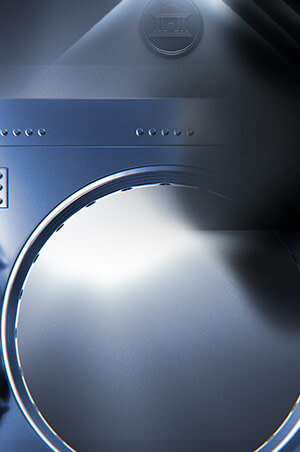
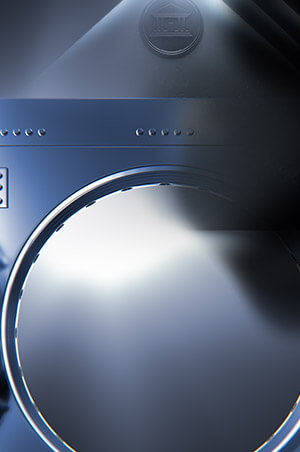
Crime small feedback

diff --git a/preview/Amazon_Book_2025/Crime/970x250/style.css b/preview/Amazon_Book_2025/Crime/970x250/style.css
@@ -148,14 +148,14 @@ img, div, object{
     width: 50%;
     height: 100%;
     left: 0;
-    background: #4c6a99;
-    background: linear-gradient(-90deg, rgba(76, 106, 153, 0) 0%, rgba(76, 106, 153, 1) 38%)
+    background: #000;
+    background: linear-gradient(-90deg, rgba(0, 0, 0, 0) 0%, rgba(0, 0, 0, 1) 38%)
 }
 
 #gradientR{
     width: 50%;
     height: 100%;
     right: 0;
-    background: #4c6a99;
-    background: linear-gradient(90deg, rgba(76, 106, 153, 0) 0%, rgba(76, 106, 153, 1) 34%)
+    background: #000;
+    background: linear-gradient(90deg, rgba(0, 0, 0, 0) 0%, rgba(0, 0, 0, 1) 34%)
 }
